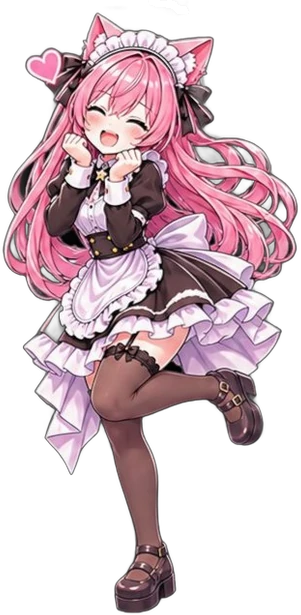
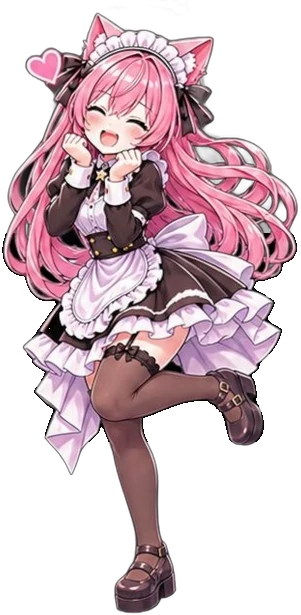
コハク「感激」のスカート左側の半透明部分を修正

diff --git a/sw.js b/sw.js
@@ -3,7 +3,7 @@
    - Page navigations are network-first so updates arrive when online.
    - Other same-origin files (images, audio, video) are cached on first use.
    Bump CACHE_VERSION whenever the app is updated. */
-var CACHE_VERSION = "nnh-v5";
+var CACHE_VERSION = "nnh-v6";
 var CORE = [
   "./",
   "./index.html",
